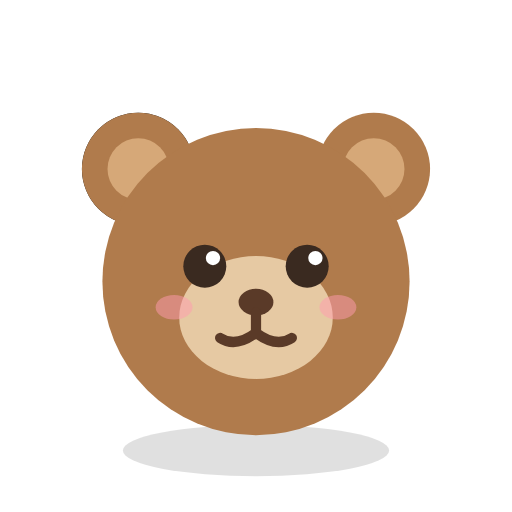
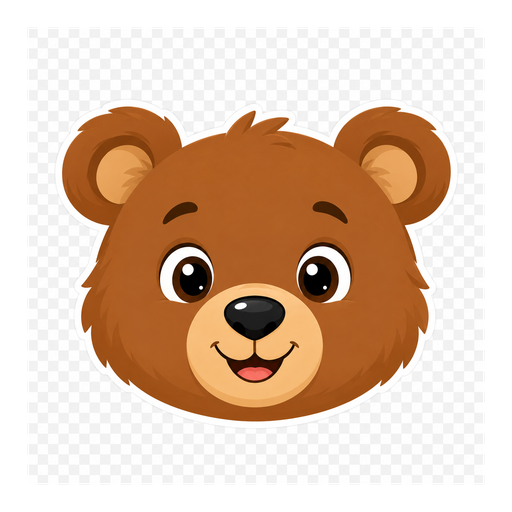
ChatGPT 美術第三批：關係配對 22 種動物全套 (v1.2.2)
- 13 種專屬動物 a-bird/bear/mouse/elephant/giraffe/bee/horse/pig/cow/turtle/squirrel/rooster/sheep
- 加上先前 8 種共用，關係配對動物全 GPT 化
- sw.js 快取 v10→v11

diff --git a/sw.js b/sw.js
@@ -3,7 +3,7 @@
    策略：預先快取 App 殼層；之後用 stale-while-revalidate，
    先回快取（離線可玩），背景再更新，不需手動改版本就會自動更新。
    ============================================================ */
-const CACHE = "mlp-cache-v10";
+const CACHE = "mlp-cache-v11";
 
 const ASSETS = [
   "./",

diff --git a/docs/更新紀錄.md b/docs/更新紀錄.md
@@ -4,6 +4,16 @@
 
 ---
 
+## [1.2.2] － 2026-06-07｜ChatGPT 美術第三批：關係配對 22 種動物全套上線 🐾🎨
+### 新增／替換
+- **關係配對 22 種動物全部換成 ChatGPT 生圖**：猴子／老虎／小鳥／兔子／貓／熊貓／狗／熊／老鼠／大象／長頸鹿／蜜蜂／馬／豬／牛／鴨／狐狸／無尾熊／烏龜／松鼠／公雞／綿羊
+- 其中 8 種與記憶配對共用（同一張圖），本批新增 13 種專屬：bird/bear/mouse/elephant/giraffe/bee/horse/pig/cow/turtle/squirrel/rooster/sheep
+- 聲音配對用到的 `a-rooster`、`a-sheep` 也已換新
+### 影響檔案
+- 新增 `assets/img/a-*.png`（13 張）、`sw.js`（快取 `v10`→`v11`）
+- 規模：大型（替換大量素材）
+- 後續批次：關係配對食物 16 種（進行中）
+
 ## [1.2.1] － 2026-06-07｜ChatGPT 美術第二批：記憶配對 20 種全套上線 🧠🎨
 ### 新增／替換
 - **記憶配對 20 種圖案全部換成 ChatGPT 生圖**：狐狸／兔子／貓／狗／熊貓／老虎／獅子／青蛙／猴子／無尾熊／獨角獸／小雞／蝴蝶／魚／草莓／香蕉／蘋果／葡萄／彩虹／星星
